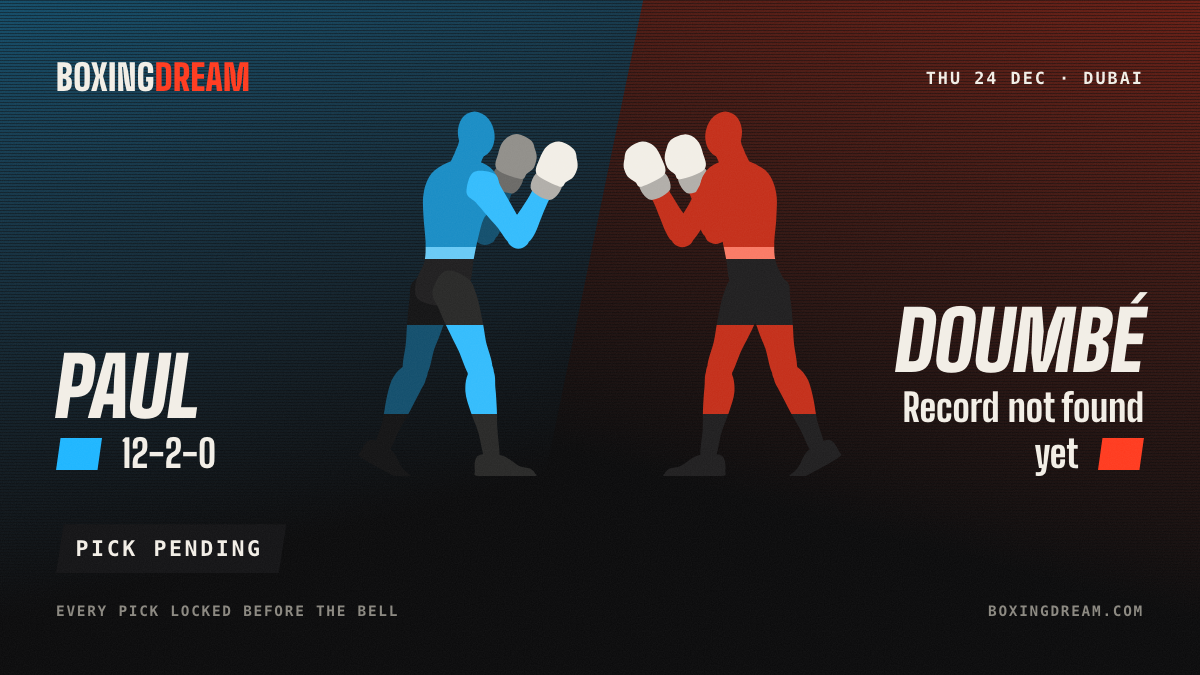
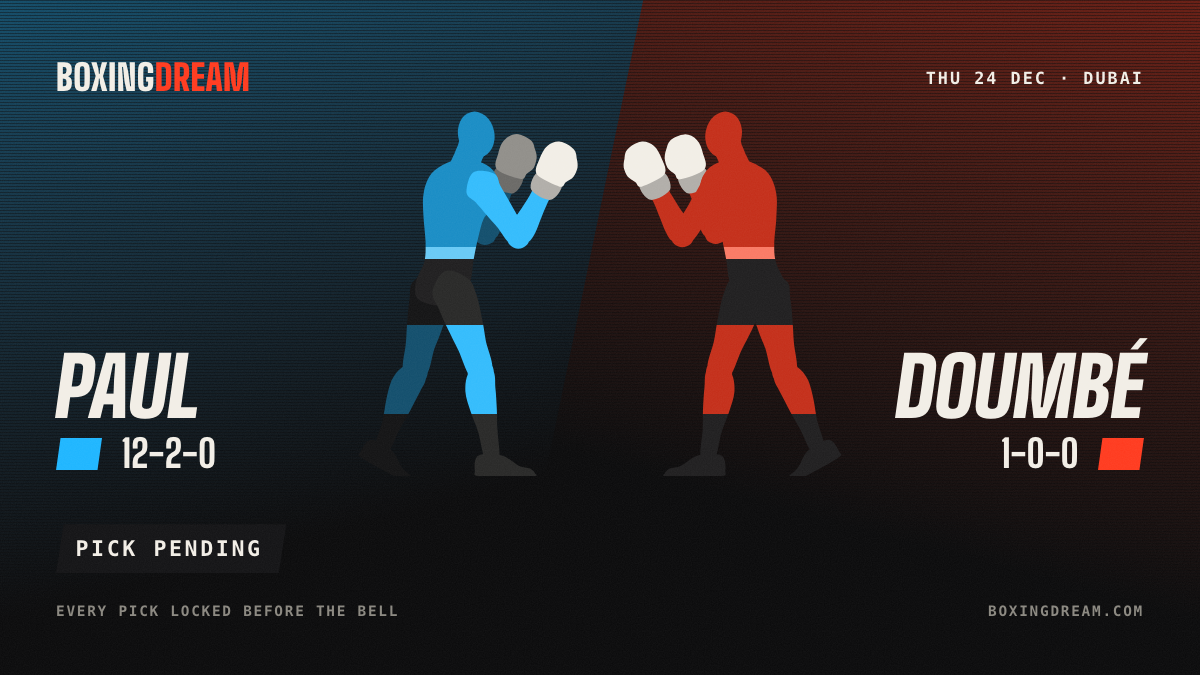
Daily update 2026-11-21

Changed region(s): [[0.74, 0.4356, 0.9558, 0.7156]]

diff --git a/index.html b/index.html
@@ -174,26 +174,23 @@ footer p { margin: 0 0 8px; max-width: 70ch; }
 <section class="next" aria-labelledby="next-title">
   <div class="stage" aria-hidden="true"><div class="half-a"></div><div class="half-b"></div></div>
   <div class="next-in">
-<div class="next-figs" aria-hidden="true"><svg class="fig fig-a" viewBox="0 0 632.1 1000" preserveAspectRatio="xMidYMax meet" aria-hidden="true"><defs><linearGradient id="feat-2026-11-20-price-kotaskova-a-t" gradientUnits="userSpaceOnUse" x1="0" y1="1000" x2="0" y2="-36.3"><stop offset="0.000" stop-color="#201F20"/><stop offset="0.575" stop-color="#201F20"/><stop offset="0.575" stop-color="#69CAF6"/><stop offset="0.605" stop-color="#69CAF6"/><stop offset="0.605" stop-color="#1A8DC5"/><stop offset="1.000" stop-color="#1A8DC5"/></linearGradient><linearGradient id="feat-2026-11-20-price-kotaskova-a-far" gradientUnits="userSpaceOnUse" x1="0" y1="1000" x2="0" y2="-36.3"><stop offset="0.000" stop-color="#141415"/><stop offset="0.165" stop-color="#141415"/><stop offset="0.165" stop-color="#134F6D"/><stop offset="0.400" stop-color="#134F6D"/><stop offset="0.400" stop-color="#141415"/><stop offset="1.000" stop-color="#141415"/></linearGradient><linearGradient id="feat-2026-11-20-price-kotaskova-a-near" gradientUnits="userSpaceOnUse" x1="0" y1="1000" x2="0" y2="-36.3"><stop offset="0.000" stop-color="#292928"/><stop offset="0.165" stop-color="#292928"/><stop offset="0.165" stop-color="#34BCFC"/><stop offset="0.400" stop-color="#34BCFC"/><stop offset="0.400" stop-color="#292928"/><stop offset="1.000" stop-color="#292928"/></linearGradient></defs><path d="M251 438C267 432 299 448 313 460C327 471 329 487 336 505C342 523 346 546 350 567C355 588 357 607 361 630C366 653 380 685 379 704C379 722 367 737 356 741C346 744 328 740 317 726C305 711 296 677 286 656C276 635 267 618 258 599C248 580 239 559 232 541C225 524 212 511 215 494C218 476 234 443 251 438ZM344 688C355 686 374 699 381 711C388 722 386 740 387 757C389 775 390 796 391 816C392 836 391 853 393 875C394 897 400 931 398 946C396 960 387 963 380 964C374 965 364 965 358 951C351 937 347 903 341 882C335 861 326 844 320 825C314 806 306 786 305 768C304 750 306 733 312 720C319 706 332 689 344 688ZM373 741C367 747 356 751 347 751C339 751 328 747 322 741C315 735 311 724 311 715C311 706 315 695 322 689C328 683 339 679 347 679C356 679 367 683 373 689C379 695 383 706 383 715C383 724 379 735 373 741ZM347 1000C321 998 332 995 331 985C330 976 328 950 341 943C353 936 387 938 405 943C423 948 438 965 451 971C464 977 474 976 482 979C489 983 495 988 495 992C496 995 511 999 486 1000C461 1001 373 1002 347 1000Z" fill="url(#feat-2026-11-20-price-kotaskova-a-far)"/><path d="M326 168C339 159 371 166 383 171C395 177 394 191 400 203C406 214 415 228 422 241C429 254 435 266 444 279C452 293 469 311 471 325C474 338 469 355 461 360C453 366 436 365 424 358C412 351 401 329 391 316C381 304 371 294 362 283C352 272 342 259 333 250C324 240 310 237 308 224C307 210 314 176 326 168ZM420 327C420 316 428 308 433 297C439 287 449 275 456 264C463 253 470 242 478 230C485 217 492 196 501 188C510 180 525 178 532 182C540 186 546 199 545 211C544 223 530 241 524 255C518 268 514 280 509 292C504 304 500 319 494 329C488 340 485 350 475 356C465 361 445 368 436 363C427 358 421 338 420 327ZM470 364C465 369 455 373 448 373C440 373 430 369 425 364C420 359 416 349 416 341C416 334 420 324 425 318C430 313 440 309 448 309C455 309 465 313 470 318C476 324 480 334 480 341C480 349 476 359 470 364Z" fill="#134F6D"/><path d="M481 215C475 202 488 170 502 167C516 164 559 185 565 198C570 211 549 241 535 243C521 246 487 227 481 215Z" fill="#6B6A67"/><path d="M497 174C488 161 500 144 504 131C509 118 516 103 526 95C535 87 549 82 561 84C573 85 590 96 597 104C605 112 605 122 606 131C608 140 609 147 608 155C606 163 602 173 597 180C592 186 582 190 576 195C570 199 572 210 559 207C546 203 506 186 497 174Z" fill="#918F8A"/><path d="M174 513C164 502 167 483 170 466C174 449 188 430 193 411C197 393 196 379 196 358C195 336 191 307 190 285C189 263 187 242 191 223C194 204 202 184 212 171C223 158 239 149 254 142C268 135 287 132 301 132C316 131 329 133 342 138C355 143 372 151 381 163C391 175 399 194 399 210C400 226 391 245 384 259C377 273 363 281 355 295C348 310 345 328 340 347C335 366 331 389 327 409C324 430 324 453 317 472C311 490 303 508 289 518C274 528 249 532 230 532C211 531 184 524 174 513ZM255 161C253 150 260 149 263 142C267 135 270 126 274 119C277 111 280 104 284 95C288 87 287 74 297 67C307 61 332 50 344 55C356 60 365 87 367 98C368 110 358 118 354 126C350 135 347 142 344 150C340 158 337 166 333 173C330 180 334 187 325 192C316 197 289 209 278 204C266 199 257 171 255 161Z" fill="url(#feat-2026-11-20-price-kotaskova-a-t)"/><ellipse cx="334.7" cy="64.2" rx="49.7" ry="63.2" transform="rotate(-12 334.7 64.2)" fill="#1A8DC5"/><path d="M220 436C237 439 257 470 263 487C270 503 264 518 260 535C257 553 249 575 242 594C236 613 228 630 220 651C213 673 209 707 199 722C189 737 171 744 161 742C150 740 137 726 134 709C131 691 140 658 142 636C144 614 144 595 146 575C147 555 150 532 152 514C155 496 150 480 162 467C173 454 203 433 220 436ZM177 690C187 694 197 715 197 728C198 742 187 755 180 770C172 785 163 803 154 820C145 837 136 851 126 869C116 888 105 919 96 930C87 941 78 939 72 937C65 934 58 929 59 914C60 900 73 870 78 849C83 829 84 811 88 792C92 773 96 753 103 737C111 722 121 709 133 701C146 693 166 685 177 690ZM191 741C185 747 174 751 166 751C157 751 146 747 140 741C134 735 130 724 130 715C130 706 134 695 140 689C146 683 157 679 166 679C174 679 185 683 191 689C197 695 202 706 202 715C202 724 197 735 191 741ZM26 953C4 939 15 942 18 933C22 924 33 901 47 900C62 900 90 918 104 930C118 943 123 965 131 976C140 988 150 992 155 998C160 1005 162 1012 161 1016C160 1019 171 1029 149 1019C126 1008 48 968 26 953Z" fill="url(#feat-2026-11-20-price-kotaskova-a-near)"/><path d="M220 170C232 160 264 164 277 168C290 173 289 187 297 198C304 209 313 222 322 234C330 246 337 258 347 271C356 284 374 300 378 313C383 326 379 343 371 350C364 356 346 357 334 350C322 344 309 323 298 312C286 301 276 292 265 282C255 271 244 260 234 251C224 241 210 240 207 227C205 213 208 179 220 170ZM327 320C326 309 333 301 338 290C342 279 350 266 356 254C363 242 368 231 374 218C380 204 385 183 393 174C402 165 416 161 424 164C432 168 440 180 439 192C439 204 428 224 423 238C419 252 416 264 412 276C408 289 405 304 401 315C396 326 394 337 385 343C376 350 357 359 347 355C337 351 329 331 327 320ZM379 355C374 360 364 364 356 364C349 364 339 360 334 355C328 349 324 339 324 332C324 324 328 314 334 309C339 304 349 300 356 300C364 300 374 304 379 309C384 314 388 324 388 332C388 339 384 349 379 355Z" fill="#34BCFC"/><path d="M376 202C369 190 378 157 392 153C405 149 451 165 458 177C465 189 446 221 433 225C419 229 383 214 376 202Z" fill="#B1AEA9"/><path d="M388 160C377 148 387 130 391 117C394 103 400 88 408 79C417 70 430 63 442 64C454 64 472 73 480 80C489 87 490 98 492 106C495 115 497 122 496 130C495 138 492 149 488 156C483 163 474 168 469 173C463 178 466 189 453 187C439 184 398 172 388 160Z" fill="#F2EEE6"/></svg><svg class="fig fig-b" viewBox="0 0 632.1 1000" preserveAspectRatio="xMidYMax meet" aria-hidden="true"><defs><linearGradient id="feat-2026-11-20-price-kotaskova-b-t" gradientUnits="userSpaceOnUse" x1="0" y1="1000" x2="0" y2="-36.3"><stop offset="0.000" stop-color="#201F20"/><stop offset="0.575" stop-color="#201F20"/><stop offset="0.575" stop-color="#FA7A65"/><stop offset="0.605" stop-color="#FA7A65"/><stop offset="0.605" stop-color="#C42F1A"/><stop offset="1.000" stop-color="#C42F1A"/></linearGradient><linearGradient id="feat-2026-11-20-price-kotaskova-b-far" gradientUnits="userSpaceOnUse" x1="0" y1="1000" x2="0" y2="-36.3"><stop offset="0.000" stop-color="#141415"/><stop offset="0.165" stop-color="#141415"/><stop offset="0.165" stop-color="#6D1E14"/><stop offset="0.400" stop-color="#6D1E14"/><stop offset="0.400" stop-color="#141415"/><stop offset="1.000" stop-color="#141415"/></linearGradient><linearGradient id="feat-2026-11-20-price-kotaskova-b-near" gradientUnits="userSpaceOnUse" x1="0" y1="1000" x2="0" y2="-36.3"><stop offset="0.000" stop-color="#292928"/><stop offset="0.165" stop-color="#292928"/><stop offset="0.165" stop-color="#FE4D33"/><stop offset="0.400" stop-color="#FE4D33"/><stop offset="0.400" stop-color="#292928"/><stop offset="1.000" stop-color="#292928"/></linearGradient></defs><path d="M417 494C420 511 407 524 400 541C393 559 384 580 375 599C366 618 356 635 346 656C336 677 327 711 315 726C304 740 286 744 276 741C266 737 254 722 253 704C252 685 266 653 271 630C276 607 277 588 282 567C286 546 290 523 296 505C303 487 305 471 319 460C333 448 365 432 381 438C398 443 414 476 417 494ZM320 720C326 733 328 750 327 768C326 786 318 806 312 825C306 844 297 861 291 882C285 903 281 937 274 951C268 965 258 965 252 964C245 963 236 960 234 946C232 931 238 897 240 875C241 853 240 836 241 816C242 796 243 775 245 757C247 740 244 722 251 711C258 699 277 686 289 688C300 689 313 706 320 720ZM249 715C249 706 253 695 259 689C265 683 276 679 285 679C294 679 305 683 311 689C317 695 321 706 321 715C321 724 317 735 311 741C305 747 294 751 285 751C276 751 265 747 259 741C253 735 249 724 249 715ZM146 1000C121 999 136 995 137 992C137 988 143 983 150 979C158 976 169 977 181 971C194 965 209 948 227 943C245 938 279 936 291 943C304 950 303 976 302 985C301 995 311 998 285 1000C259 1002 171 1001 146 1000Z" fill="url(#feat-2026-11-20-price-kotaskova-b-far)"/><path d="M324 224C323 237 308 240 299 250C290 259 280 272 271 283C261 294 251 304 241 316C231 329 220 351 208 358C197 365 179 366 171 360C163 355 158 338 161 325C164 311 180 293 188 279C197 266 203 254 210 241C218 228 226 214 232 203C239 191 237 177 249 171C261 166 293 159 306 168C318 176 325 210 324 224ZM196 363C187 368 167 361 157 356C147 350 144 340 138 329C133 319 128 304 123 292C118 280 114 268 108 255C102 241 88 223 87 211C86 199 92 186 100 182C107 178 122 180 131 188C140 196 147 217 155 230C162 242 169 253 176 264C183 275 193 287 199 297C205 308 212 316 212 327C211 338 205 358 196 363ZM152 341C152 334 156 324 162 318C167 313 177 309 184 309C192 309 202 313 207 318C213 324 217 334 217 341C217 349 213 359 207 364C202 369 192 373 184 373C177 373 167 369 162 364C156 359 152 349 152 341Z" fill="#6D1E14"/><path d="M97 243C83 241 62 211 67 198C73 185 117 164 130 167C144 170 157 202 151 215C146 227 111 246 97 243Z" fill="#6B6A67"/><path d="M73 207C60 210 62 199 56 195C50 190 41 186 35 180C30 173 26 163 24 155C23 147 24 140 26 131C27 122 27 112 35 104C42 96 59 85 71 84C83 82 97 87 106 95C116 103 123 118 128 131C133 144 144 161 135 174C126 186 86 203 73 207Z" fill="#918F8A"/><path d="M402 532C383 532 358 528 344 518C329 508 322 490 315 472C309 453 308 430 305 409C301 389 297 366 292 347C288 328 284 310 277 295C269 281 255 273 248 259C241 245 232 226 233 210C233 194 241 175 251 163C260 151 277 143 290 138C303 133 316 131 331 132C346 132 364 135 378 142C393 149 409 158 420 171C430 184 438 204 441 223C445 242 443 263 442 285C442 307 437 336 436 358C436 379 435 393 440 411C444 430 459 449 462 466C465 483 468 502 458 513C448 524 421 531 402 532ZM354 204C343 209 316 197 307 192C298 187 302 180 299 173C296 166 292 158 288 150C285 142 282 135 278 126C274 118 264 110 265 98C267 87 276 60 288 55C300 50 326 61 336 67C346 74 344 87 348 95C352 104 355 111 358 119C362 126 366 135 369 142C372 149 379 150 377 161C375 171 366 199 354 204Z" fill="url(#feat-2026-11-20-price-kotaskova-b-t)"/><ellipse cx="297.4" cy="64.2" rx="49.7" ry="63.2" transform="rotate(12 297.4 64.2)" fill="#C42F1A"/><path d="M471 467C482 480 477 496 480 514C483 532 485 555 486 575C488 595 488 614 490 636C492 658 501 691 498 709C495 726 482 740 472 742C461 744 443 737 433 722C423 707 419 673 412 651C404 630 396 613 390 594C383 575 376 553 372 535C369 518 362 503 369 487C375 470 395 439 412 436C429 433 459 454 471 467ZM499 701C511 709 521 722 529 737C536 753 540 773 544 792C548 811 549 829 554 849C559 870 572 900 573 914C575 929 567 934 561 937C554 939 545 941 536 930C527 919 516 888 506 869C496 851 487 837 478 820C469 803 460 785 452 770C445 755 434 742 435 728C435 715 445 694 456 690C466 685 487 693 499 701ZM430 715C430 706 435 695 441 689C447 683 458 679 466 679C475 679 486 683 492 689C498 695 503 706 503 715C503 724 498 735 492 741C486 747 475 751 466 751C458 751 447 747 441 741C435 735 430 724 430 715ZM484 1019C461 1029 472 1019 471 1016C470 1012 473 1005 478 998C482 992 493 988 501 976C510 965 514 943 528 930C542 918 571 900 585 900C599 901 610 924 614 933C618 942 628 939 606 953C584 968 506 1008 484 1019Z" fill="url(#feat-2026-11-20-price-kotaskova-b-near)"/><path d="M425 227C423 240 408 241 398 251C389 260 377 271 367 282C356 292 346 301 334 312C323 323 310 344 298 350C286 357 268 356 261 350C254 343 250 326 254 313C258 300 276 284 285 271C295 258 302 246 310 234C319 222 328 209 336 198C343 187 342 173 355 168C368 164 400 160 412 170C424 179 427 213 425 227ZM285 355C276 359 256 350 247 343C238 337 236 326 231 315C227 304 224 289 220 276C216 264 213 252 209 238C204 224 193 204 193 192C193 180 201 168 208 164C216 161 231 165 239 174C247 183 252 204 258 218C264 231 270 242 276 254C282 266 290 279 295 290C299 301 306 309 305 320C303 331 295 351 285 355ZM244 332C244 324 248 314 253 309C259 304 268 300 276 300C283 300 293 304 299 309C304 314 308 324 308 332C308 339 304 349 299 355C293 360 283 364 276 364C268 364 259 360 253 355C248 349 244 339 244 332Z" fill="#FE4D33"/><path d="M199 225C186 221 167 189 174 177C181 165 227 149 240 153C254 157 263 190 256 202C249 214 213 229 199 225Z" fill="#B1AEA9"/><path d="M179 187C166 189 169 178 164 173C158 168 149 163 144 156C140 149 137 138 136 130C136 122 137 115 140 106C143 98 144 87 152 80C160 73 178 64 190 64C202 63 215 70 224 79C233 88 238 103 241 117C245 130 255 148 244 160C234 172 193 184 179 187Z" fill="#F2EEE6"/></svg></div>    <p class="next-k mono"><span class="swatch gold"></span>Latest card · Fri 20 Nov</p>
-    <h1 id="next-title"><span class="a lean">Price</span> <span class="vs">vs</span> <span class="b lean">Kotaskova</span></h1>
+<div class="next-figs" aria-hidden="true"><svg class="fig fig-a" viewBox="0 0 632.1 1000" preserveAspectRatio="xMidYMax meet" aria-hidden="true"><defs><linearGradient id="feat-2026-11-28-kessler-joseph-a-t" gradientUnits="userSpaceOnUse" x1="0" y1="1000" x2="0" y2="-36.3"><stop offset="0.000" stop-color="#201F20"/><stop offset="0.575" stop-color="#201F20"/><stop offset="0.575" stop-color="#69CAF6"/><stop offset="0.605" stop-color="#69CAF6"/><stop offset="0.605" stop-color="#1A8DC5"/><stop offset="1.000" stop-color="#1A8DC5"/></linearGradient><linearGradient id="feat-2026-11-28-kessler-joseph-a-far" gradientUnits="userSpaceOnUse" x1="0" y1="1000" x2="0" y2="-36.3"><stop offset="0.000" stop-color="#141415"/><stop offset="0.165" stop-color="#141415"/><stop offset="0.165" stop-color="#134F6D"/><stop offset="0.400" stop-color="#134F6D"/><stop offset="0.400" stop-color="#141415"/><stop offset="1.000" stop-color="#141415"/></linearGradient><linearGradient id="feat-2026-11-28-kessler-joseph-a-near" gradientUnits="userSpaceOnUse" x1="0" y1="1000" x2="0" y2="-36.3"><stop offset="0.000" stop-color="#292928"/><stop offset="0.165" stop-color="#292928"/><stop offset="0.165" stop-color="#34BCFC"/><stop offset="0.400" stop-color="#34BCFC"/><stop offset="0.400" stop-color="#292928"/><stop offset="1.000" stop-color="#292928"/></linearGradient></defs><path d="M220 436C237 439 257 470 263 487C270 503 264 518 260 535C257 553 249 575 242 594C236 613 228 630 220 651C213 673 209 707 199 722C189 737 171 744 161 742C150 740 137 726 134 709C131 691 140 658 142 636C144 614 144 595 146 575C147 555 150 532 152 514C155 496 150 480 162 467C173 454 203 433 220 436ZM177 690C187 694 197 715 197 728C198 742 187 755 180 770C172 785 163 803 154 820C145 837 136 851 126 869C116 888 105 919 96 930C87 941 78 939 72 937C65 934 58 929 59 914C60 900 73 870 78 849C83 829 84 811 88 792C92 773 96 753 103 737C111 722 121 709 133 701C146 693 166 685 177 690ZM191 741C185 747 174 751 166 751C157 751 146 747 140 741C134 735 130 724 130 715C130 706 134 695 140 689C146 683 157 679 166 679C174 679 185 683 191 689C197 695 202 706 202 715C202 724 197 735 191 741ZM26 953C4 939 15 942 18 933C22 924 33 901 47 900C62 900 90 918 104 930C118 943 123 965 131 976C140 988 150 992 155 998C160 1005 162 1012 161 1016C160 1019 171 1029 149 1019C126 1008 48 968 26 953Z" fill="url(#feat-2026-11-28-kessler-joseph-a-far)"/><path d="M220 170C232 160 264 164 277 168C290 173 289 187 296 198C304 209 313 222 321 234C330 246 337 257 346 270C356 283 374 299 378 312C382 326 378 343 370 349C363 355 346 356 333 350C321 343 309 323 297 311C286 300 276 291 265 281C255 271 243 259 234 250C224 241 210 240 207 227C205 213 208 179 220 170ZM327 319C325 309 332 300 337 289C342 278 349 265 356 254C362 242 367 231 373 218C380 204 384 183 392 174C401 165 415 161 423 165C431 168 439 180 438 192C438 204 427 224 422 238C418 251 415 263 411 276C408 289 405 304 400 315C396 326 393 336 384 343C375 349 356 358 346 354C337 350 328 330 327 319ZM378 354C373 359 363 363 356 363C348 363 338 359 333 354C328 348 323 339 323 331C323 323 328 314 333 308C338 303 348 299 356 299C363 299 373 303 378 308C384 314 388 323 388 331C388 339 384 348 378 354Z" fill="#134F6D"/><path d="M375 202C368 190 377 157 391 153C404 149 450 165 457 177C464 189 445 221 432 225C418 230 382 215 375 202Z" fill="#6B6A67"/><path d="M387 160C376 149 386 130 390 117C393 103 399 88 407 79C416 70 429 64 441 64C453 64 471 73 479 80C488 87 488 98 491 106C494 115 496 122 495 130C494 138 491 149 487 156C482 163 473 168 468 173C462 178 465 189 452 187C438 184 397 172 387 160Z" fill="#918F8A"/><path d="M174 513C164 502 167 483 170 466C174 449 188 430 193 411C197 393 196 379 196 358C195 336 191 307 190 285C189 263 187 242 191 223C194 204 202 184 212 171C223 158 239 149 254 142C268 135 287 132 301 132C316 131 329 133 342 138C355 143 372 151 381 163C391 175 399 194 399 210C400 226 391 245 384 259C377 273 363 281 355 295C348 310 345 328 340 347C335 366 331 389 327 409C324 430 324 453 317 472C311 490 303 508 289 518C274 528 249 532 230 532C211 531 184 524 174 513ZM255 161C253 150 260 149 263 142C267 135 270 126 274 119C277 111 280 104 284 95C288 87 287 74 297 67C307 61 332 50 344 55C356 60 365 87 367 98C368 110 358 118 354 126C350 135 347 142 344 150C340 158 337 166 333 173C330 180 334 187 325 192C316 197 289 209 278 204C266 199 257 171 255 161Z" fill="url(#feat-2026-11-28-kessler-joseph-a-t)"/><ellipse cx="334.7" cy="64.2" rx="49.7" ry="63.2" transform="rotate(-12 334.7 64.2)" fill="#1A8DC5"/><path d="M251 438C267 432 299 448 313 460C327 471 329 487 336 505C342 523 346 546 350 567C355 588 357 607 361 630C366 653 380 685 379 704C379 722 367 737 356 741C346 744 328 740 317 726C305 711 296 677 286 656C276 635 267 618 258 599C248 580 239 559 232 541C225 524 212 511 215 494C218 476 234 443 251 438ZM344 688C355 686 374 699 381 711C388 722 386 740 387 757C389 775 390 796 391 816C392 836 391 853 393 875C394 897 400 931 398 946C396 960 387 963 380 964C374 965 364 965 358 951C351 937 347 903 341 882C335 861 326 844 320 825C314 806 306 786 305 768C304 750 306 733 312 720C319 706 332 689 344 688ZM373 741C367 747 356 751 347 751C339 751 328 747 322 741C315 735 311 724 311 715C311 706 315 695 322 689C328 683 339 679 347 679C356 679 367 683 373 689C379 695 383 706 383 715C383 724 379 735 373 741ZM347 1000C321 998 332 995 331 985C330 976 328 950 341 943C353 936 387 938 405 943C423 948 438 965 451 971C464 977 474 976 482 979C489 983 495 988 495 992C496 995 511 999 486 1000C461 1001 373 1002 347 1000Z" fill="url(#feat-2026-11-28-kessler-joseph-a-near)"/><path d="M326 168C339 159 371 166 383 171C395 177 393 191 400 202C406 214 414 228 422 241C429 253 435 265 443 279C451 293 468 310 471 324C474 337 468 354 460 359C452 365 435 364 423 357C412 350 401 328 391 316C380 303 371 294 361 283C352 272 342 259 333 249C324 239 310 237 308 224C307 210 314 176 326 168ZM420 326C419 315 427 307 433 297C439 286 448 274 455 263C463 252 469 242 477 229C484 217 491 196 500 188C509 180 524 178 531 182C539 186 545 199 544 211C543 223 529 241 523 254C517 268 513 279 508 292C503 304 499 318 493 329C488 339 484 349 475 355C465 361 445 367 435 362C426 357 420 337 420 326ZM470 363C464 368 455 372 447 372C440 372 430 368 424 363C419 358 415 348 415 340C415 333 419 323 424 318C430 312 440 308 447 308C455 308 464 312 470 318C475 323 479 333 479 340C479 348 475 358 470 363Z" fill="#34BCFC"/><path d="M480 215C474 202 487 170 501 167C515 164 558 185 564 198C569 211 548 240 534 243C520 246 486 227 480 215Z" fill="#B1AEA9"/><path d="M496 174C487 161 499 144 503 131C508 118 515 103 525 95C534 87 548 82 560 83C572 85 589 96 596 104C604 112 604 122 605 131C607 140 608 147 607 155C605 163 601 173 596 180C591 186 581 190 575 195C569 199 571 210 558 207C545 203 505 186 496 174Z" fill="#F2EEE6"/></svg><svg class="fig fig-b" viewBox="0 0 632.1 1000" preserveAspectRatio="xMidYMax meet" aria-hidden="true"><defs><linearGradient id="feat-2026-11-28-kessler-joseph-b-t" gradientUnits="userSpaceOnUse" x1="0" y1="1000" x2="0" y2="-36.3"><stop offset="0.000" stop-color="#201F20"/><stop offset="0.575" stop-color="#201F20"/><stop offset="0.575" stop-color="#FA7A65"/><stop offset="0.605" stop-color="#FA7A65"/><stop offset="0.605" stop-color="#C42F1A"/><stop offset="1.000" stop-color="#C42F1A"/></linearGradient><linearGradient id="feat-2026-11-28-kessler-joseph-b-body" gradientUnits="userSpaceOnUse" x1="0" y1="1000" x2="0" y2="-36.3"><stop offset="0.000" stop-color="#201F20"/><stop offset="0.165" stop-color="#201F20"/><stop offset="0.165" stop-color="#C42F1A"/><stop offset="0.400" stop-color="#C42F1A"/><stop offset="0.400" stop-color="#201F20"/><stop offset="1.000" stop-color="#201F20"/></linearGradient></defs><path d="M471 467C482 480 477 496 480 514C483 532 485 555 486 575C488 595 488 614 490 636C492 658 501 691 498 709C495 726 482 740 472 742C461 744 443 737 433 722C423 707 419 673 412 651C404 630 396 613 390 594C383 575 376 553 372 535C369 518 362 503 369 487C375 470 395 439 412 436C429 433 459 454 471 467ZM499 701C511 709 521 722 529 737C536 753 540 773 544 792C548 811 549 829 554 849C559 870 572 900 573 914C575 929 567 934 561 937C554 939 545 941 536 930C527 919 516 888 506 869C496 851 487 837 478 820C469 803 460 785 452 770C445 755 434 742 435 728C435 715 445 694 456 690C466 685 487 693 499 701ZM430 715C430 706 435 695 441 689C447 683 458 679 466 679C475 679 486 683 492 689C498 695 503 706 503 715C503 724 498 735 492 741C486 747 475 751 466 751C458 751 447 747 441 741C435 735 430 724 430 715ZM484 1019C461 1029 472 1019 471 1016C470 1012 473 1005 478 998C482 992 493 988 501 976C510 965 514 943 528 930C542 918 571 900 585 900C599 901 610 924 614 933C618 942 628 939 606 953C584 968 506 1008 484 1019Z" fill="url(#feat-2026-11-28-kessler-joseph-b-body)"/><path d="M417 494C420 511 407 524 400 541C393 559 384 580 375 599C366 618 356 635 346 656C336 677 327 711 315 726C304 740 286 744 276 741C266 737 254 722 253 704C252 685 266 653 271 630C276 607 277 588 282 567C286 546 290 523 296 505C303 487 305 471 319 460C333 448 365 432 381 438C398 443 414 476 417 494ZM320 720C326 733 328 750 327 768C326 786 318 806 312 825C306 844 297 861 291 882C285 903 281 937 274 951C268 965 258 965 252 964C245 963 236 960 234 946C232 931 238 897 240 875C241 853 240 836 241 816C242 796 243 775 245 757C247 740 244 722 251 711C258 699 277 686 289 688C300 689 313 706 320 720ZM249 715C249 706 253 695 259 689C265 683 276 679 285 679C294 679 305 683 311 689C317 695 321 706 321 715C321 724 317 735 311 741C305 747 294 751 285 751C276 751 265 747 259 741C253 735 249 724 249 715ZM146 1000C121 999 136 995 137 992C137 988 143 983 150 979C158 976 169 977 181 971C194 965 209 948 227 943C245 938 279 936 291 943C304 950 303 976 302 985C301 995 311 998 285 1000C259 1002 171 1001 146 1000Z" fill="url(#feat-2026-11-28-kessler-joseph-b-body)"/><path d="M425 227C423 240 408 241 398 251C389 260 377 271 367 282C356 292 346 301 334 312C323 323 310 344 298 350C286 357 268 356 261 350C254 343 250 326 254 313C258 300 276 284 285 271C295 258 302 246 310 234C319 222 328 209 336 198C343 187 342 173 355 168C368 164 400 160 412 170C424 179 427 213 425 227ZM285 355C276 359 256 350 247 343C238 337 236 326 231 315C227 304 224 289 220 276C216 264 213 252 209 238C204 224 193 204 193 192C193 180 201 168 208 164C216 161 231 165 239 174C247 183 252 204 258 218C264 231 270 242 276 254C282 266 290 279 295 290C299 301 306 309 305 320C303 331 295 351 285 355ZM244 332C244 324 248 314 253 309C259 304 268 300 276 300C283 300 293 304 299 309C304 314 308 324 308 332C308 339 304 349 299 355C293 360 283 364 276 364C268 364 259 360 253 355C248 349 244 339 244 332Z" fill="#C42F1A"/><path d="M199 225C186 221 167 189 174 177C181 165 227 149 240 153C254 157 263 190 256 202C249 214 213 229 199 225Z" fill="#B1AEA9"/><path d="M179 187C166 189 169 178 164 173C158 168 149 163 144 156C140 149 137 138 136 130C136 122 137 115 140 106C143 98 144 87 152 80C160 73 178 64 190 64C202 63 215 70 224 79C233 88 238 103 241 117C245 130 255 148 244 160C234 172 193 184 179 187Z" fill="#F2EEE6"/><path d="M324 224C323 237 308 240 299 250C290 259 280 272 271 283C261 294 251 304 241 316C231 329 220 351 208 358C197 365 179 366 171 360C163 355 158 338 161 325C164 311 180 293 188 279C197 266 203 254 210 241C218 228 226 214 232 203C239 191 237 177 249 171C261 166 293 159 306 168C318 176 325 210 324 224ZM196 363C187 368 167 361 157 356C147 350 144 340 138 329C133 319 128 304 123 292C118 280 114 268 108 255C102 241 88 223 87 211C86 199 92 186 100 182C107 178 122 180 131 188C140 196 147 217 155 230C162 242 169 253 176 264C183 275 193 287 199 297C205 308 212 316 212 327C211 338 205 358 196 363ZM152 341C152 334 156 324 162 318C167 313 177 309 184 309C192 309 202 313 207 318C213 324 217 334 217 341C217 349 213 359 207 364C202 369 192 373 184 373C177 373 167 369 162 364C156 359 152 349 152 341Z" fill="#C42F1A"/><path d="M97 243C83 241 62 211 67 198C73 185 117 164 130 167C144 170 157 202 151 215C146 227 111 246 97 243Z" fill="#B1AEA9"/><path d="M73 207C60 210 62 199 56 195C50 190 41 186 35 180C30 173 26 163 24 155C23 147 24 140 26 131C27 122 27 112 35 104C42 96 59 85 71 84C83 82 97 87 106 95C116 103 123 118 128 131C133 144 144 161 135 174C126 186 86 203 73 207Z" fill="#F2EEE6"/><path d="M402 532C383 532 358 528 344 518C329 508 322 490 315 472C309 453 308 430 305 409C301 389 297 366 292 347C288 328 284 310 277 295C269 281 255 273 248 259C241 245 232 226 233 210C233 194 241 175 251 163C260 151 277 143 290 138C303 133 316 131 331 132C346 132 364 135 378 142C393 149 409 158 420 171C430 184 438 204 441 223C445 242 443 263 442 285C442 307 437 336 436 358C436 379 435 393 440 411C444 430 459 449 462 466C465 483 468 502 458 513C448 524 421 531 402 532ZM354 204C343 209 316 197 307 192C298 187 302 180 299 173C296 166 292 158 288 150C285 142 282 135 278 126C274 118 264 110 265 98C267 87 276 60 288 55C300 50 326 61 336 67C346 74 344 87 348 95C352 104 355 111 358 119C362 126 366 135 369 142C372 149 379 150 377 161C375 171 366 199 354 204Z" fill="url(#feat-2026-11-28-kessler-joseph-b-t)"/><ellipse cx="297.4" cy="64.2" rx="49.7" ry="63.2" transform="rotate(12 297.4 64.2)" fill="#C42F1A"/></svg></div>    <p class="next-k mono"><span class="swatch gold"></span>Next fight · Sat 28 Nov</p>
+    <h1 id="next-title"><span class="a lean">Kessler</span> <span class="vs">vs</span> <span class="b lean">Joseph</span></h1>
     <p class="next-meta mono">
-<span class="belt">WBC, IBF and WBA Women&#39;s Welterweight</span><span>Utilita Arena Cardiff, Cardiff, Wales, UK</span><span>BBC Two</span>    </p>
+<span>Brøndby Hallen, Brøndby, Denmark</span>    </p>
     <div class="next-row">
-      <div class="flag mono"><span class="k">Our pick</span><span class="v">Price</span></div>
-      <a class="cta mono" href="cards/2026-11-20-price-kotaskova/">See the results &rarr;</a>
+      <a class="cta mono" href="cards/2026-11-28-kessler-joseph/">See the picks &rarr;</a>
     </div>
-<p class="stmt">Kotaskova has never been stopped in 15 fights. Price has stopped only 2 of her 10 opponents.</p>  </div>
+  </div>
 </section>
 
 <section class="night" aria-labelledby="night-title">
-  <h2 id="night-title" class="sec-h">Every result</h2>
-  <p class="sec-sub mono">Fri 20 Nov · how every pick did</p>
+  <h2 id="night-title" class="sec-h">Every pick</h2>
+  <p class="sec-sub mono">Sat 28 Nov · our pick for every bout</p>
   <div class="night-card">
-    <a class="night-t" href="cards/2026-11-20-price-kotaskova/"><span class="t2">Price vs Kotaskova</span><span class="m3 mono">BBC Two</span></a>
+    <a class="night-t" href="cards/2026-11-28-kessler-joseph/"><span class="t2">Kessler vs Joseph</span></a>
     <ol class="picklines">
-  <li><a href="cards/2026-11-20-price-kotaskova/#fight-1"><span class="pl-ab">Price <span class="v">v</span> Kotaskova</span><span class="pl-pk a">Price</span></a></li>
-  <li><a href="cards/2026-11-20-price-kotaskova/#fight-2"><span class="pl-ab">Edwards <span class="v">v</span> McGregor</span><span class="pl-pk a">Edwards</span><span class="pl-tg mono hit">Called it</span></a></li>
-  <li><a href="cards/2026-11-20-price-kotaskova/#fight-3"><span class="pl-ab">Jones <span class="v">v</span> Arkwright</span><span class="pl-pk a">Jones</span><span class="pl-tg mono">billed first</span></a></li>
+  <li><a href="cards/2026-11-28-kessler-joseph/#fight-1"><span class="pl-ab">Kessler <span class="v">v</span> Joseph</span><span class="pl-pk">Pending</span></a></li>
 </ol>
   </div>
 </section>

diff --git a/cards/2026-12-24-paul-doumbe/index.html b/cards/2026-12-24-paul-doumbe/index.html
@@ -352,9 +352,9 @@ main.wrap { padding-top: 24px; }
       <div class="hero-rec"><span class="hero-wld">12-2-0</span></div>
     </div>
     <div class="plate b">
-      <div class="ptag mono"><span class="given">Cédric</span><span></span><span class="swatch b"></span></div>
+      <div class="ptag mono"><span class="given">Cédric</span><span>France</span><span class="swatch b"></span></div>
       <p class="hero-surname "><span class="lean">Doumbé</span></p>
-      <div class="hero-rec"><span class="hero-wld">Record not found yet</span></div>
+      <div class="hero-rec"><span class="hero-wld">1-0-0</span></div>
     </div>
   </div>
 
@@ -363,7 +363,7 @@ main.wrap { padding-top: 24px; }
 <nav class="scorebug" aria-label="Jake Paul vs Cédric Doumbé">
   <div class="sb-side a"><span class="sb-flag a"><span class="lean">Paul</span></span><span class="sb-rec">12-2-0</span></div>
   <div class="sb-mid mono">Cruiserweight · 8 RDS</div>
-  <div class="sb-side b"><span class="sb-rec">Record not found yet</span><span class="sb-flag b"><span class="lean">Doumbé</span></span></div>
+  <div class="sb-side b"><span class="sb-rec">1-0-0</span><span class="sb-flag b"><span class="lean">Doumbé</span></span></div>
 </nav>
 
 <main class="wrap">
@@ -396,11 +396,11 @@ main.wrap { padding-top: 24px; }
     <div class="vs">VS</div>
     <div class="fighter b">
       <div class="given mono">Cédric</div><h2 class="">Doumbé</h2>
-      <div class="rec">Record not found yet</div><div class="recbar" role="img" aria-label="0 wins by KO, 0 by decision, 0 draws, 0 losses">
-  <i class="ko" style="width:0.0%"></i><i class="dec" style="width:0.0%"></i><i class="draw" style="width:0.0%"></i><i class="loss" style="width:0.0%"></i>
+      <div class="rec">1-0-0</div><div class="recbar" role="img" aria-label="0 wins by KO, 1 by decision, 0 draws, 0 losses">
+  <i class="ko" style="width:0.0%"></i><i class="dec" style="width:100.0%"></i><i class="draw" style="width:0.0%"></i><i class="loss" style="width:0.0%"></i>
 </div>
-<div class="reclegend"><span><b>0</b> KO</span><span><b>0</b> dec</span><span><b>0</b> L</span></div>
-    </div>
+<div class="reclegend"><span><b>0</b> KO</span><span><b>1</b> dec</span><span><b>0</b> L</span></div>
+<div class="nat">France</div>    </div>
   </div>
 
   <div class="call pending">
@@ -919,19 +919,19 @@ main.wrap { padding-top: 24px; }
   <div class="poster">
     <div class="fighter a">
       <div class="given mono">Alistair</div><h2 id="bout-3" class="">Overeem</h2>
-      <div class="rec">Record not found yet</div><div class="recbar" role="img" aria-label="0 wins by KO, 0 by decision, 0 draws, 0 losses">
+      <div class="rec">0-0-0</div><div class="recbar" role="img" aria-label="0 wins by KO, 0 by decision, 0 draws, 0 losses">
   <i class="ko" style="width:0.0%"></i><i class="dec" style="width:0.0%"></i><i class="draw" style="width:0.0%"></i><i class="loss" style="width:0.0%"></i>
 </div>
 <div class="reclegend"><span><b>0</b> KO</span><span><b>0</b> dec</span><span><b>0</b> L</span></div>
-    </div>
+<div class="nat">Netherlands</div>    </div>
     <div class="vs">VS</div>
     <div class="fighter b">
       <div class="given mono">Jimi</div><h2 class="">Manuwa</h2>
-      <div class="rec">Record not found yet</div><div class="recbar" role="img" aria-label="0 wins by KO, 0 by decision, 0 draws, 0 losses">
-  <i class="ko" style="width:0.0%"></i><i class="dec" style="width:0.0%"></i><i class="draw" style="width:0.0%"></i><i class="loss" style="width:0.0%"></i>
+      <div class="rec">1-0-0</div><div class="recbar" role="img" aria-label="1 wins by KO, 0 by decision, 0 draws, 0 losses">
+  <i class="ko" style="width:100.0%"></i><i class="dec" style="width:0.0%"></i><i class="draw" style="width:0.0%"></i><i class="loss" style="width:0.0%"></i>
 </div>
-<div class="reclegend"><span><b>0</b> KO</span><span><b>0</b> dec</span><span><b>0</b> L</span></div>
-    </div>
+<div class="reclegend"><span><b>1</b> KO</span><span><b>0</b> dec</span><span><b>0</b> L</span></div>
+<div class="nat">United Kingdom</div>    </div>
   </div>
 
   <div class="call pending">
@@ -1025,7 +1025,7 @@ main.wrap { padding-top: 24px; }
       <div class="val r na"><b>—</b><small>no completed fights</small></div>
     </div>
     <div class="row">
-      <div class="val l"><div class="pipbox"><b>—</b><small>data incomplete</small></div></div>
+      <div class="val l"><div class="pipbox"><b>—</b><small>no completed fights</small></div></div>
       <div class="mid"><div class="label">Last 5 fights</div></div>
       <div class="val r"><div class="pipbox"><b>—</b><small>data incomplete</small></div></div>
     </div>
@@ -1040,21 +1040,21 @@ main.wrap { padding-top: 24px; }
     <div class="key mono"><span><span class="swatch a"></span>Overeem</span><span>Manuwa<span class="swatch b"></span></span></div>
 
     <div class="row">
-      <div class="val l na"><b>—</b><small>data incomplete</small></div>
+      <div class="val l na"><b>—</b><small>records known for only 0 of 0 opponents</small></div>
       <div class="mid">
         <div class="label">Opponents&#39; win rate</div>
       </div>
       <div class="val r na"><b>—</b><small>data incomplete</small></div>
     </div>
     <div class="row">
-      <div class="val l na"><b>—</b><small>data incomplete</small></div>
+      <div class="val l na"><b>—</b><small>records known for 0 of last 5</small></div>
       <div class="mid">
         <div class="label">Opponents&#39; win rate, last 5 fights</div>
       </div>
       <div class="val r na"><b>—</b><small>data incomplete</small></div>
     </div>
     <div class="row">
-      <div class="val l na"><b>—</b><small>data incomplete</small></div>
+      <div class="val l na"><b>—</b><small>no rated opponents</small></div>
       <div class="mid">
         <div class="label">Record vs opponents with winning records</div>
       </div>
@@ -1071,21 +1071,21 @@ main.wrap { padding-top: 24px; }
     <div class="key mono"><span><span class="swatch a"></span>Overeem</span><span>Manuwa<span class="swatch b"></span></span></div>
 
     <div class="row">
-      <div class="val l na"><b>—</b><small>data incomplete</small></div>
+      <div class="val l na"><b>—</b><small>only 0 wins</small></div>
       <div class="mid">
         <div class="label">Wins by knockout</div>
       </div>
       <div class="val r na"><b>—</b><small>data incomplete</small></div>
     </div>
     <div class="row">
-      <div class="val l na"><b>—</b><small>data incomplete</small></div>
+      <div class="val l na"><b>—</b><small>only 0 wins over rated winners</small></div>
       <div class="mid">
         <div class="label">Knockouts vs opponents with winning records</div>
       </div>
       <div class="val r na"><b>—</b><small>data incomplete</small></div>
     </div>
     <div class="row">
-      <div class="val l na"><b>—</b><small>data incomplete</small></div>
+      <div class="val l na"><b>—</b><small>not enough fights</small></div>
       <div class="mid">
         <div class="label">Times stopped</div>
       </div>
@@ -1102,38 +1102,38 @@ main.wrap { padding-top: 24px; }
     <div class="key mono"><span><span class="swatch a"></span>Overeem</span><span>Manuwa<span class="swatch b"></span></span></div>
 
     <div class="row">
-      <div class="val l na"><b>—</b><small>data incomplete</small></div>
+      <div class="val l na"><b>—</b><small>not enough fights</small></div>
       <div class="mid">
         <div class="label">Longest fight</div>
       </div>
       <div class="val r na"><b>—</b><small>data incomplete</small></div>
     </div>
     <div class="row">
-      <div class="val l na"><b>—</b><small>data incomplete</small></div>
+      <div class="val l na"><b>—</b><small>not enough fights</small></div>
       <div class="mid">
         <div class="label">Fights that reached round 10</div>
       </div>
       <div class="val r na"><b>—</b><small>data incomplete</small></div>
     </div>
     <div class="row">
-      <div class="val l na"><b>—</b><small>data incomplete</small></div>
+      <div class="val l na"><b>—</b><small>not enough fights</small></div>
       <div class="mid">
         <div class="label">Fights that reached round 12</div>
       </div>
       <div class="val r na"><b>—</b><small>data incomplete</small></div>
     </div>
     <div class="row">
-      <div class="val l na"><b>—</b><small>data incomplete</small></div>
+      <div class="val l na"><b>—</b><small>not enough fights</small></div>
       <div class="mid">
         <div class="label">Fights that went to the judges</div>
       </div>
       <div class="val r na"><b>—</b><small>data incomplete</small></div>
     </div>
     <div class="row">
-      <div class="val l na"><b>—</b><small>data incomplete</small></div>
+      <div class="val l"><b>0</b></div>
       <div class="mid">
         <div class="label">World title fights</div>
-      </div>
+<div class="axis" aria-hidden="true"><span class="half l" style="width:calc((50% - 8px) * 0.0)"><i></i></span><span class="half r" style="width:calc((50% - 8px) * 0.0)"><i></i></span></div>      </div>
       <div class="val r na"><b>—</b><small>data incomplete</small></div>
     </div>
   </div>
@@ -1147,7 +1147,7 @@ main.wrap { padding-top: 24px; }
     <div class="key mono"><span><span class="swatch a"></span>Overeem</span><span>Manuwa<span class="swatch b"></span></span></div>
 
     <div class="row">
-      <div class="val l na"><b>—</b><small>data incomplete</small></div>
+      <div class="val l"><b>0-0-0</b><small>0 opponents with known stance</small></div>
       <div class="mid">
         <div class="label">Record vs southpaws (left-handers)</div>
       </div>
@@ -1174,7 +1174,7 @@ main.wrap { padding-top: 24px; }
 
 <footer>
   <p><strong>How to read it.</strong> Bars show size, not who is better: each is drawn against 100% for rates, or against the larger of the two fighters for counts. Form: a solid pip is a win, an outlined pip is a loss, grey is a draw, and a red bar under a win means it ended inside the distance. A dash means the sample is too small to show or the record is incomplete, and the reason is printed under it. World title fights count the four major bodies: WBA, WBC, IBF and WBO.</p>
-  <p>Every figure is calculated from public fight records as they stood on the fight date. Figures last changed 20 November 2026. The records are re-checked every day until the fight. Sources: Wikipedia (CC BY-SA 4.0), Wikidata. Wikipedia text is licensed CC BY-SA 4.0.</p>
+  <p>Every figure is calculated from public fight records as they stood on the fight date. Figures last changed 21 November 2026. The records are re-checked every day until the fight. Sources: Wikipedia (CC BY-SA 4.0), Wikidata. Wikipedia text is licensed CC BY-SA 4.0.</p>
 </footer>
 </main>
 <div class="legal">
